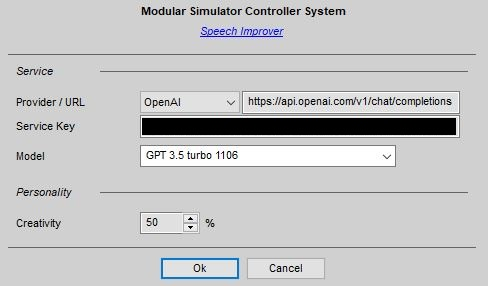
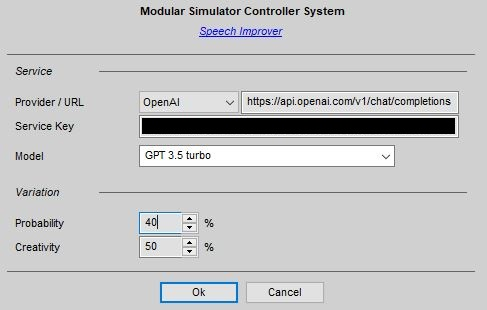
Speech Paraphraser Part 11

diff --git a/Docs/Installation & Configuration.md b/Docs/Installation & Configuration.md
@@ -382,7 +382,7 @@ Said this, it is clear, that the interaction with the Assistants, will not feel 
 
 Please take a look at the documentation for the [Driving Coach](https://github.com/SeriousOldMan/Simulator-Controller/wiki/Virtual-Driving-Coach#installation) for a description of the different provider which can be configured here.
 
-The initial implementation will be used to create more variations in the speech output of the Assistants. This is done by using a GPT to rephrase one of the pre-defined phrases. Using the creativity setting, you can define, who *strong* the rephrasing will be. According to my tests, a value of 50% will create some intersting variation without altering the original sense of the message. Please note, that there are messages, especially the urgent alerts of the Spotter, which are time-critical. Those messages will never be send to the AI for rephrasing.
+The initial implementation will be used to create more variations in the speech output of the Assistants. This is done by using a GPT to rephrase one of the pre-defined phrases. The *Probabilty* setting defines, how often the rephrasing is done and using the *Creativity* setting, you can define, how *strong* the rephrasing will be. According to my tests, a value of 50% will create some intersting variation without altering the original sense of the message. Please note, that there are messages, especially the urgent alerts of the Spotter, which are time-critical. Those messages will never be send to the AI for rephrasing.
 
 Important: Using a GPT service like OpenAI may impose some costs, and running an LLM locally on your PC will require a very powerful system, especially when doing this while on the track. Therefore, configuring speech improvement is fully optional.
 
